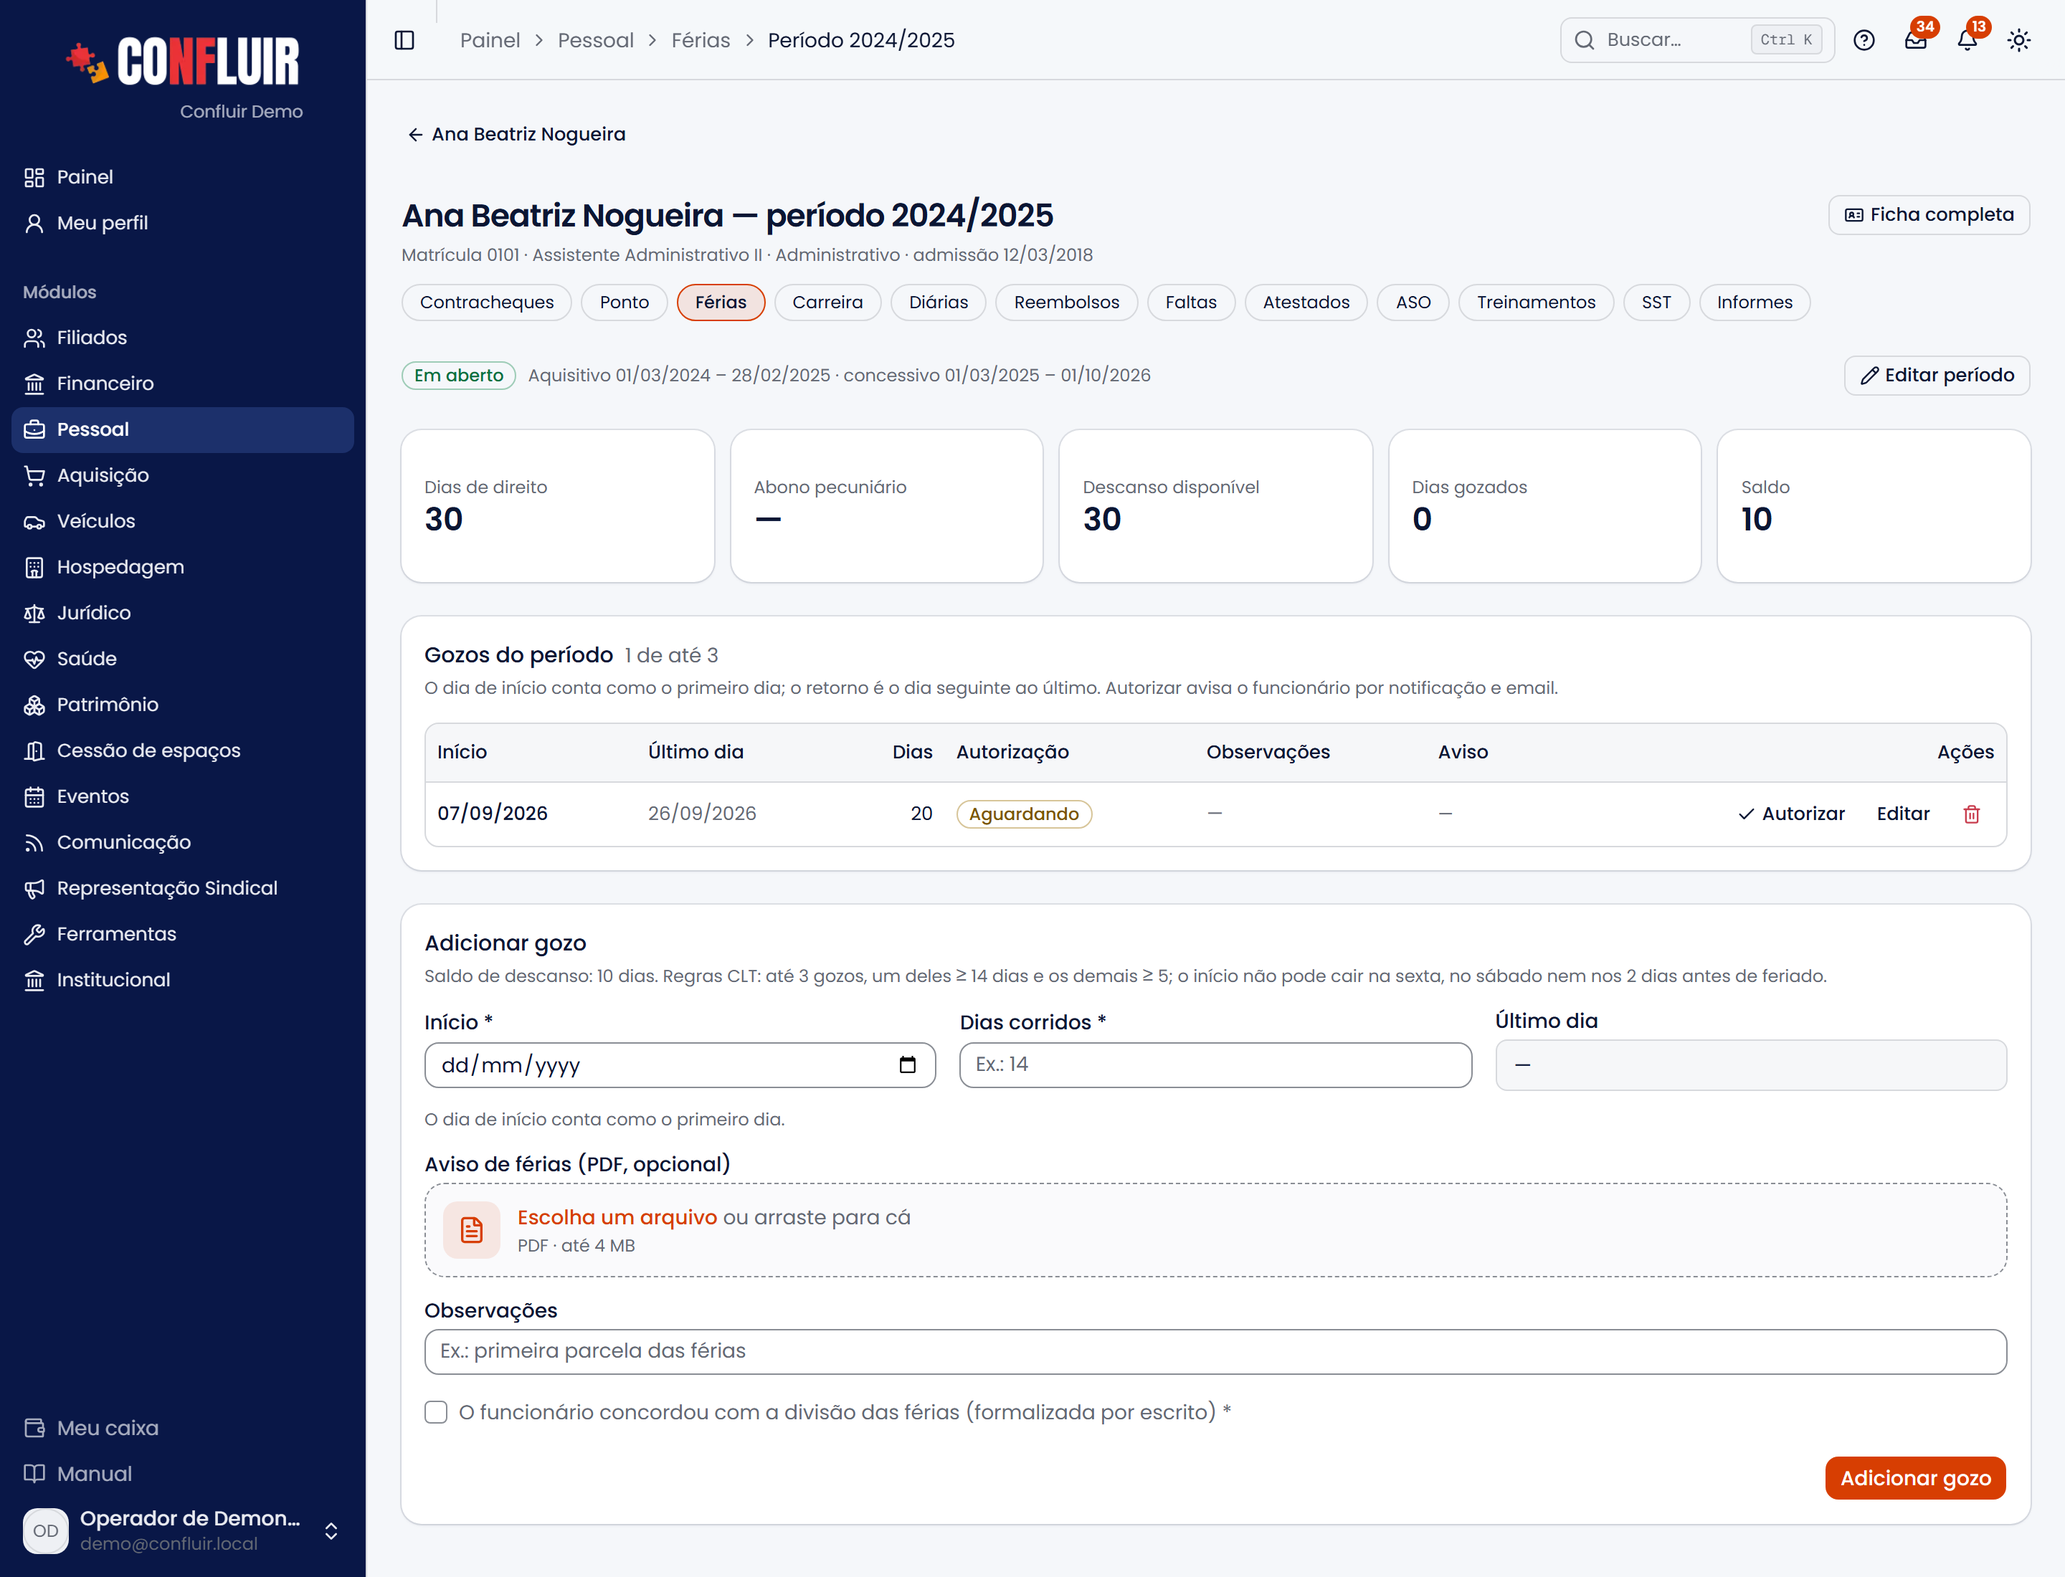
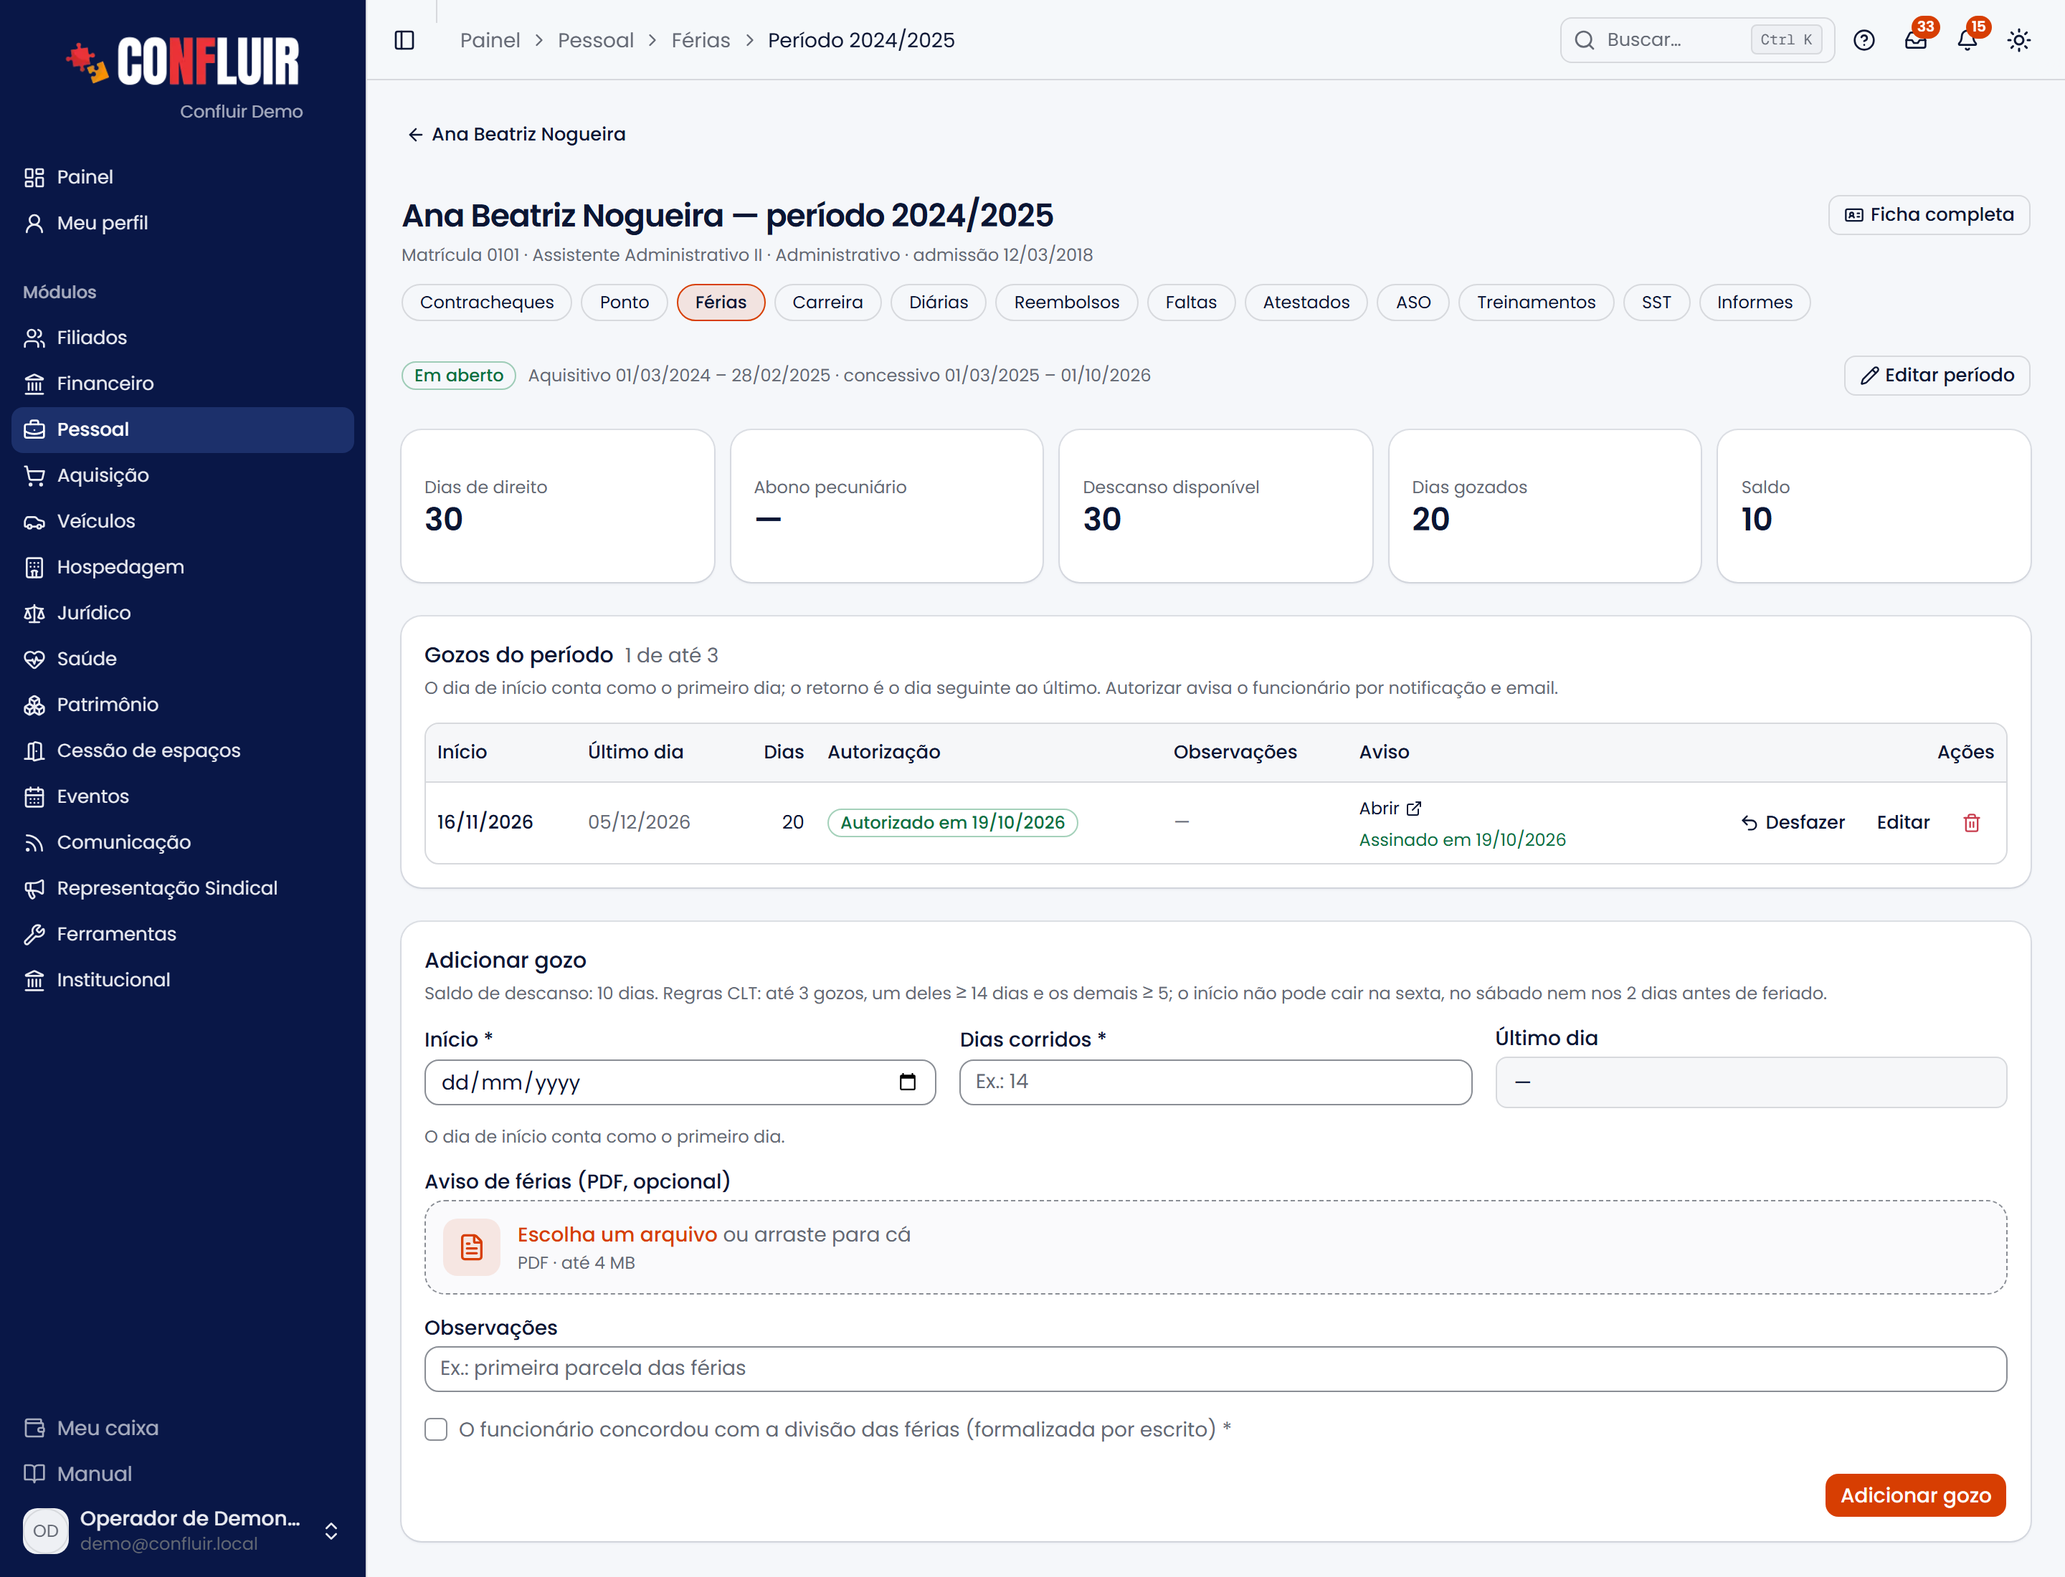
Manual de Férias: prints do aviso de férias assinado
- ferias-aviso-pendentes.png: o aviso da área com Enviar avisos para
  assinatura
- ferias-aviso-assinar.png: a página que o funcionário abre pelo link
- ferias-registro.png refeito: a coluna Aviso com Assinado em …
Situação montada na demo (gozo futuro autorizado e CPF de teste da Ana) e
desfeita depois.

diff --git a/src/lib/ajuda/base-conhecimento.ts b/src/lib/ajuda/base-conhecimento.ts
@@ -477,7 +477,7 @@ export const BASE_AJUDA: ArtigoBase[] = [
   {
     "area": "pessoal",
     "slug": "ferias",
-    "texto": "A área de Férias controla os períodos aquisitivos de cada funcionário, os\ngozos (as saídas efetivas) e a autorização desses gozos, seguindo as regras da\nCLT.\n\n Gestão de Pessoal \n\nPor funcionário: \n A primeira aba da área é Funcionários: clique no nome para ver a página da\n pessoa nesta área e, dela, cada registro. Veja como cada área se organiza (seção \"Como cada área se organiza\").\n \n\n O que é\n\n- Período aquisitivo — os 12 meses que dão direito a férias.\n- Gozo — cada saída de férias marcada dentro de um período. Um período pode\n ser fracionado em mais de um gozo.\n- Autorização — o passo em que a gestão confirma o gozo.\n\n Passo a passo\n\n \n \nAbra Pessoal → Férias: \n No topo ficam os indicadores (em férias hoje, aguardando autorização, prazo\n vencendo, períodos vencidos e dias a gozar — clique para filtrar) e, quando\n houver, a fila Aguardando autorização, onde dá para autorizar ali mesmo.\n Abaixo, três abas:\n Funcionários (a inicial) — a situação de cada um, com busca, situação\n (ativos, desligados), departamento e situação de férias; clique no\n cabeçalho para ordenar por saldo, próximas férias ou prazo;\n Distribuição por mês — o gráfico dos dias de férias no ano (troque o ano\n nas setas); e Períodos — a lista completa, com busca e filtro\n Abertos / Finalizados.\n \n \nAbra o funcionário: \n Clique no nome para ver as férias dele: o saldo a gozar, o próximo prazo,\n as próximas férias, os dias autorizados (com o que aguarda autorização à\n parte) e o histórico de todos os períodos com os gozos. No topo, os atalhos\n levam às outras áreas da mesma pessoa.\n \n \nNovo período: \n Na página do funcionário, Novo período já vem com ele escolhido e o\n início do aquisitivo sugerido (o dia seguinte ao fim do último período, ou a\n admissão, se for o primeiro). Também dá para criar pelo botão do topo de\n Férias, escolhendo o funcionário.\n \n \nRegistre os gozos: \n Abra o período e informe, para cada gozo, o início e a quantidade de\n dias. O último dia é calculado pelo sistema.\n \n \nAutorize: \n Um gozo entra aguardando autorização. Autorize-o para confirmá-lo — o alerta\n “gozos aguardam autorização” some da tela inicial do Pessoal.\n \n \n\n \n\n \n\n \n\n \n\nVoltar de um período: \n O botão de voltar do período leva à página do funcionário. Se você abriu o\n período pela fila de autorização ou pela aba Períodos, ele volta para lá.\n Quando a pessoa tem mais de um período, anterior/próximo passa de um para\n outro sem voltar.\n \n\n Saldo e dias autorizados\n\nCada gozo conta de um jeito, conforme a situação:\n\n| Situação do gozo | Conta como gozado | Desconta do saldo |\n|---|---|---|\n| Autorizado | sim | sim |\n| Aguardando autorização | não — aparece à parte, como \"aguardando\" | sim, para os dias não serem pedidos de novo |\n| Não autorizado | não | não — os dias voltam ao saldo |\n\nO resumo de cada período mostra direito · gozados · aguardando · saldo. O\ngozo não autorizado também deixa de ocupar uma das 3 partes permitidas ao\nfracionar as férias.\n\n Aviso de férias assinado pelo funcionário\n\nAo autorizar um gozo, o sistema gera o Aviso de Férias (CLT art. 135) e\nmanda por e-mail ao funcionário um link pessoal para ler e assinar. A\nassinatura é eletrônica: ele pede um código de 6 dígitos no e-mail e confirma\ncom o nome completo e o CPF do cadastro. O aviso assinado — com a página de\ncertificado (data, hora, IP e QR de verificação) — passa a ser o Aviso do\ngozo, e quem cuida do Pessoal é avisado.\n\nÉ um e-mail só: o mesmo e-mail anuncia que as férias foram autorizadas e\ntraz o aviso para assinar. O antigo e-mail de \"Férias autorizadas\" só sai\nquando o aviso não pode ser enviado (cadastro sem e-mail ou sem CPF).\n\n- Na tabela de gozos do período, a coluna Aviso mostra a situação:\n Aguardando assinatura, Assinado em …, Não assinado (com o motivo que o\n funcionário escreveu) ou Aviso não enviado — este com o botão Enviar\n aviso; o pendente tem Reenviar link.\n- Ajustar as datas do gozo muda o aviso: o link antigo deixa de valer e sai\n um aviso novo. Desfazer a autorização, excluir ou cancelar o gozo cancela\n o link.\n- Sem e-mail ou sem CPF válido no cadastro, o aviso não sai — complete a\n ficha do funcionário e use Enviar aviso.\n- Gozos autorizados antes deste recurso, que ainda vão começar, aparecem num\n aviso no alto da área de Férias, com o botão Enviar avisos para\n assinatura.\n\nGozo autorizado vira ausência: \n Ao autorizar um gozo, ele entra nas ausências do funcionário como\n “Férias” — é o que aparece na coluna do dia do painel, na análise do ponto e\n nos relatórios. Ajustar as datas do gozo ajusta a ausência; desfazer a\n autorização, excluir ou cancelar o gozo tira a ausência. Não é preciso\n lançar férias à mão em Atestados e ausências.\n \n\n Regras e travas\n\nO dia de início conta: \n O primeiro dia já é dia de férias: 10 dias a partir de 01/10 vão até\n 10/10, e o retorno ao trabalho é 11/10. A mesma contagem vale para\n atestados, licenças e afastamentos.\n \n\nPrazo do período concessivo: \n A tela inicial do Pessoal alerta sobre períodos em aberto a 120 dias ou\n menos do fim do período concessivo. Fique atento a esse alerta para não\n deixar férias vencerem.\n \n\n- O sistema aplica as regras da CLT ao fracionar e validar os gozos.\n- No autosserviço (Meu perfil → Férias), o funcionário vê os mesmos\n números (saldo, prazo, próximas férias e dias autorizados) e escolhe o período\n aquisitivo, informa o início, a quantidade de dias e se quer vender 1/3\n (abono pecuniário). A data final aparece na hora, antes de enviar.\n- Gozos aguardando autorização aparecem como pendência na tela inicial do\n Pessoal.\n- Excluir período só aparece quando o período não tem nenhum gozo\n registrado (na página do período, na do funcionário e em Todos os períodos).\n Com gozo, exclua os gozos antes.\n\n Situação do funcionário\n\n| Situação | Quando |\n|---|---|\n| Período vencido | o concessivo já terminou e ainda há saldo |\n| Prazo vencendo | o concessivo com saldo termina em até 120 dias |\n| Em férias | há um gozo autorizado cobrindo o dia de hoje |\n| Férias marcadas | há um gozo futuro (autorizado ou aguardando) |\n| Sem período | nenhum período cadastrado |\n| Em dia | nenhuma das anteriores |\n\n Erros comuns\n\n- “O gozo não aparece nos dias autorizados.” Ele ainda está aguardando\n autorização — confirme-o. Enquanto isso, ele já reserva os dias no saldo.\n- Não acho o período de alguém. Ajuste o filtro de situação (um período já\n concluído aparece em Finalizados)."
+    "texto": "A área de Férias controla os períodos aquisitivos de cada funcionário, os\ngozos (as saídas efetivas) e a autorização desses gozos, seguindo as regras da\nCLT.\n\n Gestão de Pessoal \n\nPor funcionário: \n A primeira aba da área é Funcionários: clique no nome para ver a página da\n pessoa nesta área e, dela, cada registro. Veja como cada área se organiza (seção \"Como cada área se organiza\").\n \n\n O que é\n\n- Período aquisitivo — os 12 meses que dão direito a férias.\n- Gozo — cada saída de férias marcada dentro de um período. Um período pode\n ser fracionado em mais de um gozo.\n- Autorização — o passo em que a gestão confirma o gozo.\n\n Passo a passo\n\n \n \nAbra Pessoal → Férias: \n No topo ficam os indicadores (em férias hoje, aguardando autorização, prazo\n vencendo, períodos vencidos e dias a gozar — clique para filtrar) e, quando\n houver, a fila Aguardando autorização, onde dá para autorizar ali mesmo.\n Abaixo, três abas:\n Funcionários (a inicial) — a situação de cada um, com busca, situação\n (ativos, desligados), departamento e situação de férias; clique no\n cabeçalho para ordenar por saldo, próximas férias ou prazo;\n Distribuição por mês — o gráfico dos dias de férias no ano (troque o ano\n nas setas); e Períodos — a lista completa, com busca e filtro\n Abertos / Finalizados.\n \n \nAbra o funcionário: \n Clique no nome para ver as férias dele: o saldo a gozar, o próximo prazo,\n as próximas férias, os dias autorizados (com o que aguarda autorização à\n parte) e o histórico de todos os períodos com os gozos. No topo, os atalhos\n levam às outras áreas da mesma pessoa.\n \n \nNovo período: \n Na página do funcionário, Novo período já vem com ele escolhido e o\n início do aquisitivo sugerido (o dia seguinte ao fim do último período, ou a\n admissão, se for o primeiro). Também dá para criar pelo botão do topo de\n Férias, escolhendo o funcionário.\n \n \nRegistre os gozos: \n Abra o período e informe, para cada gozo, o início e a quantidade de\n dias. O último dia é calculado pelo sistema.\n \n \nAutorize: \n Um gozo entra aguardando autorização. Autorize-o para confirmá-lo — o alerta\n “gozos aguardam autorização” some da tela inicial do Pessoal.\n \n \n\n \n\n \n\n \n\n \n\nVoltar de um período: \n O botão de voltar do período leva à página do funcionário. Se você abriu o\n período pela fila de autorização ou pela aba Períodos, ele volta para lá.\n Quando a pessoa tem mais de um período, anterior/próximo passa de um para\n outro sem voltar.\n \n\n Saldo e dias autorizados\n\nCada gozo conta de um jeito, conforme a situação:\n\n| Situação do gozo | Conta como gozado | Desconta do saldo |\n|---|---|---|\n| Autorizado | sim | sim |\n| Aguardando autorização | não — aparece à parte, como \"aguardando\" | sim, para os dias não serem pedidos de novo |\n| Não autorizado | não | não — os dias voltam ao saldo |\n\nO resumo de cada período mostra direito · gozados · aguardando · saldo. O\ngozo não autorizado também deixa de ocupar uma das 3 partes permitidas ao\nfracionar as férias.\n\n Aviso de férias assinado pelo funcionário\n\nAo autorizar um gozo, o sistema gera o Aviso de Férias (CLT art. 135) e\nmanda por e-mail ao funcionário um link pessoal para ler e assinar. A\nassinatura é eletrônica: ele pede um código de 6 dígitos no e-mail e confirma\ncom o nome completo e o CPF do cadastro. O aviso assinado — com a página de\ncertificado (data, hora, IP e QR de verificação) — passa a ser o Aviso do\ngozo, e quem cuida do Pessoal é avisado.\n\nÉ um e-mail só: o mesmo e-mail anuncia que as férias foram autorizadas e\ntraz o aviso para assinar. O antigo e-mail de \"Férias autorizadas\" só sai\nquando o aviso não pode ser enviado (cadastro sem e-mail ou sem CPF).\n\n- Na tabela de gozos do período, a coluna Aviso mostra a situação:\n Aguardando assinatura, Assinado em …, Não assinado (com o motivo que o\n funcionário escreveu) ou Aviso não enviado — este com o botão Enviar\n aviso; o pendente tem Reenviar link.\n- Ajustar as datas do gozo muda o aviso: o link antigo deixa de valer e sai\n um aviso novo. Desfazer a autorização, excluir ou cancelar o gozo cancela\n o link.\n- Sem e-mail ou sem CPF válido no cadastro, o aviso não sai — complete a\n ficha do funcionário e use Enviar aviso.\n- Gozos autorizados antes deste recurso, que ainda vão começar, aparecem num\n aviso no alto da área de Férias, com o botão Enviar avisos para\n assinatura.\n\n \n\n \n\nGozo autorizado vira ausência: \n Ao autorizar um gozo, ele entra nas ausências do funcionário como\n “Férias” — é o que aparece na coluna do dia do painel, na análise do ponto e\n nos relatórios. Ajustar as datas do gozo ajusta a ausência; desfazer a\n autorização, excluir ou cancelar o gozo tira a ausência. Não é preciso\n lançar férias à mão em Atestados e ausências.\n \n\n Regras e travas\n\nO dia de início conta: \n O primeiro dia já é dia de férias: 10 dias a partir de 01/10 vão até\n 10/10, e o retorno ao trabalho é 11/10. A mesma contagem vale para\n atestados, licenças e afastamentos.\n \n\nPrazo do período concessivo: \n A tela inicial do Pessoal alerta sobre períodos em aberto a 120 dias ou\n menos do fim do período concessivo. Fique atento a esse alerta para não\n deixar férias vencerem.\n \n\n- O sistema aplica as regras da CLT ao fracionar e validar os gozos.\n- No autosserviço (Meu perfil → Férias), o funcionário vê os mesmos\n números (saldo, prazo, próximas férias e dias autorizados) e escolhe o período\n aquisitivo, informa o início, a quantidade de dias e se quer vender 1/3\n (abono pecuniário). A data final aparece na hora, antes de enviar.\n- Gozos aguardando autorização aparecem como pendência na tela inicial do\n Pessoal.\n- Excluir período só aparece quando o período não tem nenhum gozo\n registrado (na página do período, na do funcionário e em Todos os períodos).\n Com gozo, exclua os gozos antes.\n\n Situação do funcionário\n\n| Situação | Quando |\n|---|---|\n| Período vencido | o concessivo já terminou e ainda há saldo |\n| Prazo vencendo | o concessivo com saldo termina em até 120 dias |\n| Em férias | há um gozo autorizado cobrindo o dia de hoje |\n| Férias marcadas | há um gozo futuro (autorizado ou aguardando) |\n| Sem período | nenhum período cadastrado |\n| Em dia | nenhuma das anteriores |\n\n Erros comuns\n\n- “O gozo não aparece nos dias autorizados.” Ele ainda está aguardando\n autorização — confirme-o. Enquanto isso, ele já reserva os dias no saldo.\n- Não acho o período de alguém. Ajuste o filtro de situação (um período já\n concluído aparece em Finalizados)."
   },
   {
     "area": "pessoal",
